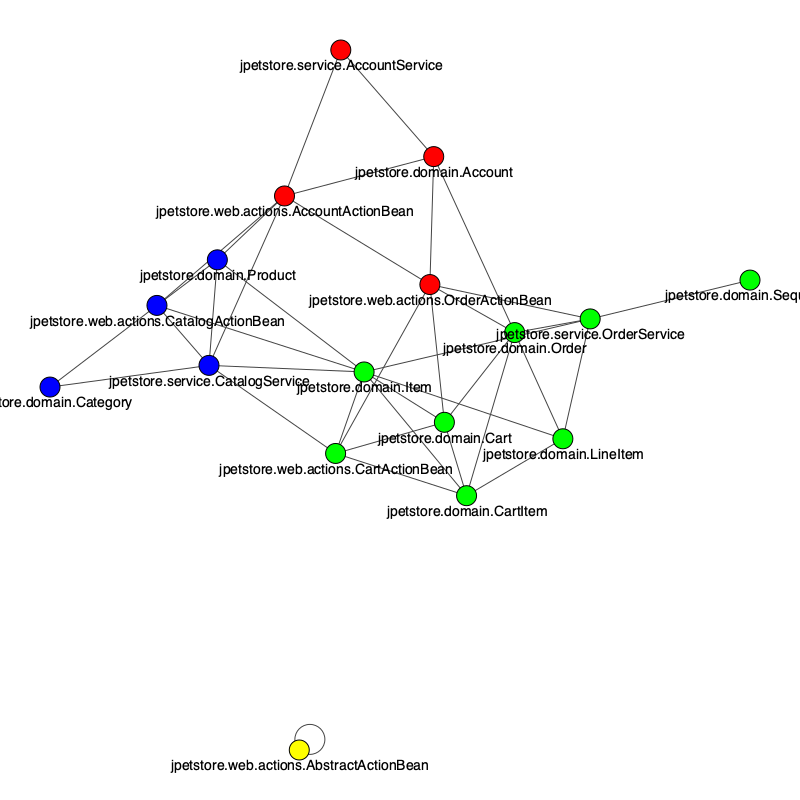
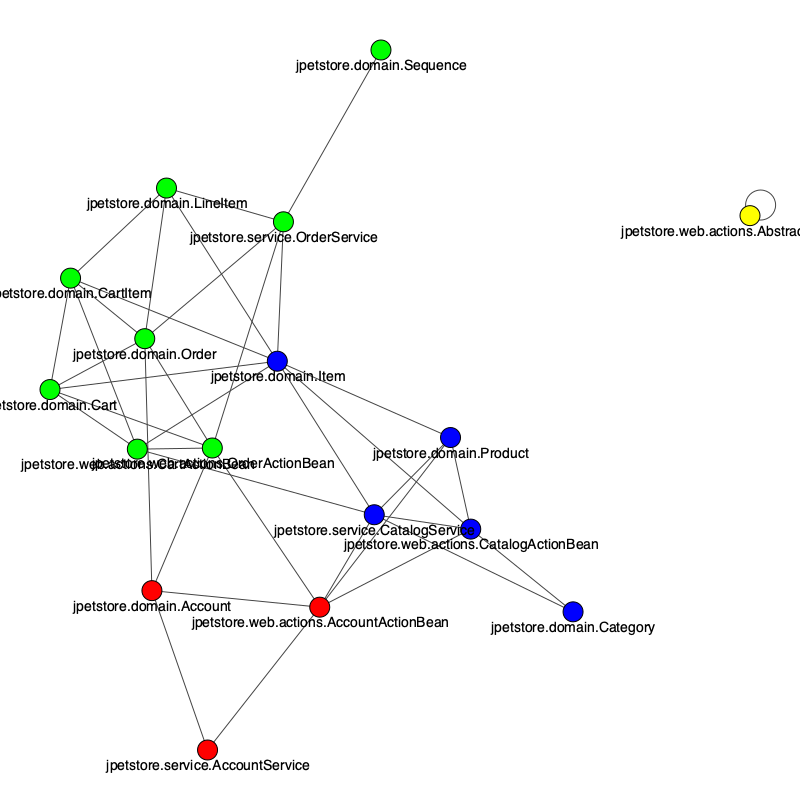
girvan-newman betweenness

diff --git a/squality/templates/squality/project_cluster_network.html b/squality/templates/squality/project_cluster_network.html
@@ -86,6 +86,22 @@
             </tr>
               {% endfor %}
             {% endif %}
+          {% if gi.algo == 'gnewman' %}
+            {% for ms in gnewman %}
+          <tr>
+            <td>MS-{{ ms.microservice }}</td>
+            <td>{{ ms.cbm }}</td>
+            <td>{{ ms.wcbm }}</td>
+            <td>{{ ms.acbm }}</td>
+            <td>{{ ms.ncam }}</td>
+            <td>{{ ms.imc }}</td>
+            <td>{{ ms.nmo }}</td>
+            <td>{{ ms.trm }}</td>
+            <td>{{ ms.mloc }}</td>
+            <td>{{ ms.mnoc }}</td>
+          </tr>
+            {% endfor %}
+          {% endif %}
           </tbody>
         </table>
       </div>

diff --git a/squality/views.py b/squality/views.py
@@ -1186,6 +1186,129 @@ def clustering_network(request, project_id):
 
     # TODO: separate as re-usable function? end ---------------------------------------------
 
+    # girvan-newman
+
+    gn_clusters = edgelist.community_edge_betweenness().as_clustering()
+    # print(gn_clusters)
+    gn_pal = igraph.drawing.colors.ClusterColoringPalette(len(gn_clusters))
+    edgelist.vs["color"] = gn_pal.get_many(gn_clusters.membership)
+    igraph.plot(edgelist, "uploads/csv/gnewman.png", **visual_style)
+
+    gi = GraphImages(
+        fullname = 'Girvan-Newman Betweenness',
+        algo = 'gnewman',
+        fileurl = '/files/gnewman.png',
+        project_id = project_id
+    )
+    gi.save()
+
+    # save into db
+    if Clustering.objects.filter(project_id=project_id,algo='gnewman').count() > 0:
+        Clustering.objects.filter(project_id=project_id,algo='gnewman').delete()
+
+    i = 0
+    for nodes in list(gn_clusters):
+        for n in nodes:
+            nn = Clustering(
+                class_name = df_nr['class_name'].values[n],
+                cluster = i,
+                type = 'network',
+                algo = 'gnewman',
+                project_id = project_id
+            )
+            nn.save()
+        i += 1
+
+    # TODO: separate as re-usable function? start ---------------------------------------------
+
+    if NetworkMetric.objects.filter(project_id=project_id,algo='gnewman').count() > 0:
+        NetworkMetric.objects.filter(project_id=project_id,algo='gnewman').delete()
+
+    ms_ms_grp = defaultdict(list)
+    ms_ms_len = Clustering.objects.filter(project_id=project_id,algo='gnewman').distinct('cluster').count()
+    for i in range(ms_ms_len):
+        mloc = 0
+        mnoc = 0
+        ncam = 0
+        imc = 0
+        nmo = 0
+        cluster_grp = []
+        cls = Clustering.objects.filter(project_id=project_id,algo='gnewman',cluster=i).all()
+        for c in cls:
+            cm = SdMetricRaw.objects.filter(project_id=project_id,class_name=c.class_name).get()
+            mloc += cm.loc
+            mnoc += 1 
+            nmo += cm.nco
+            ncam += cm.cam
+            cluster_grp.append(c.class_name)
+            ms_ms_grp[i].append(c.class_name)
+        # imc
+        for cl in cluster_grp:
+            imc_list = S101MetricRaw.objects.filter(project_id=project_id,class_from=cl).all()
+            for il in imc_list:
+                # if il.class_to != cl:
+                if ((il.class_to in cluster_grp) and (il.class_to != cl)):
+                    imc += il.weight
+
+
+        ncam = ncam / mnoc
+        imc = imc       
+        
+        fms = NetworkMetric(
+            algo = 'gnewman',
+            microservice = i,
+            mloc = mloc,
+            mnoc = mnoc,
+            ncam = ncam,
+            imc = imc,
+            nmo = nmo,
+            project_id = project_id
+        )
+        fms.save()
+
+    # wcbm
+
+    for key, val in ms_ms_grp.items():
+        ms_wcbm = 0
+        ms_trm = 0
+        if S101MetricRaw.objects.filter(class_from__in=val, project_id=project_id).count() > 0:
+            cf = S101MetricRaw.objects.filter(class_from__in=val, project_id=project_id).all()
+            for cc in cf:
+                if cc.class_to not in val:
+                    ms_wcbm += cc.weight
+                    if cc.usage == 'returns':
+                        ms_trm += cc.weight
+        ms_x = NetworkMetric.objects.filter(project_id=project_id, microservice=key, algo='gnewman').get()
+        ms_x.wcbm = ms_wcbm
+        ms_x.trm = ms_trm
+        ms_x.save()
+
+    # cbm
+    
+    for key, val in ms_ms_grp.items():
+        ms_cbm = 0
+        ms_acbm = 0
+ 
+        for i in range(ms_ms_len):
+            if key != i:
+                if S101MetricRaw.objects.filter(class_from__in=val, class_to__in=ms_ms_grp[i], project_id=project_id):
+                    ms_cbm += 1
+                   
+                    if S101MetricRaw.objects.filter(class_from__in=ms_ms_grp[i], class_to__in=val, project_id=project_id):
+                        ms_from = S101MetricRaw.objects.filter(class_from__in=val, class_to__in=ms_ms_grp[i], project_id=project_id).all()
+                        for mf in ms_from:
+                            ms_acbm += mf.weight
+                        ms_to = S101MetricRaw.objects.filter(class_from__in=ms_ms_grp[i], class_to__in=val, project_id=project_id).all()
+                        for mt in ms_to:
+                            ms_acbm += mt.weight
+
+        ms_x = NetworkMetric.objects.filter(project_id=project_id, microservice=key, algo='gnewman').get()
+        ms_x.cbm = ms_cbm
+        ms_x.acbm = ms_acbm
+        ms_x.save()
+
+    # TODO: separate as re-usable function? end ---------------------------------------------
+
     # main
 
     project = Project.objects.get(id=project_id)
@@ -1193,13 +1316,15 @@ def clustering_network(request, project_id):
     fastgreedy = NetworkMetric.objects.filter(project_id=project_id,algo='fast_greedy').order_by('microservice').all()
     louvain = NetworkMetric.objects.filter(project_id=project_id,algo='louvain').order_by('microservice').all()
     leiden = NetworkMetric.objects.filter(project_id=project_id,algo='leiden').order_by('microservice').all()
+    gnewman = NetworkMetric.objects.filter(project_id=project_id,algo='gnewman').order_by('microservice').all()
 
     data = {
         'project': project,
         'graph_images': graph_images,
         'fastgreedy': fastgreedy,
         'louvain': louvain,
-        'leiden': leiden
+        'leiden': leiden,
+        'gnewman': gnewman
         # 'df': df_nr.to_html()
     }
     return render(request, 'squality/project_cluster_network.html', data)
